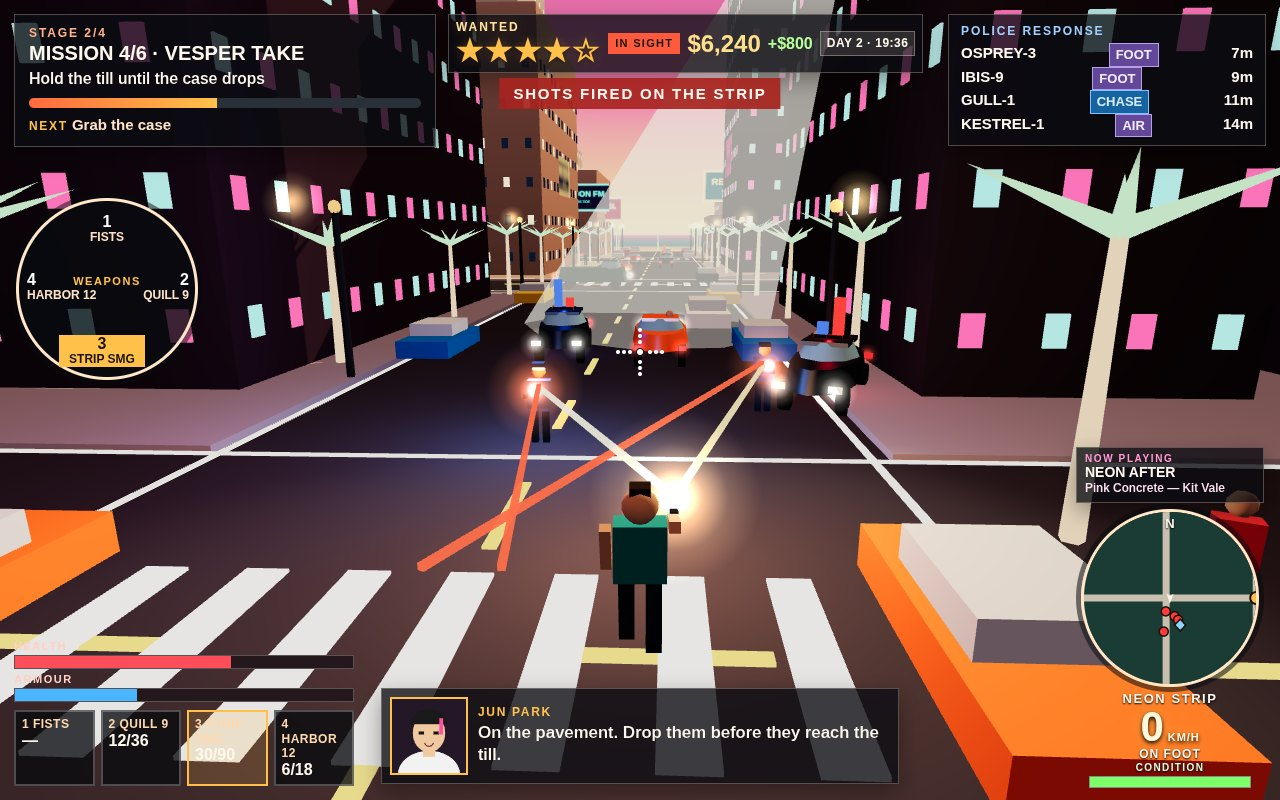
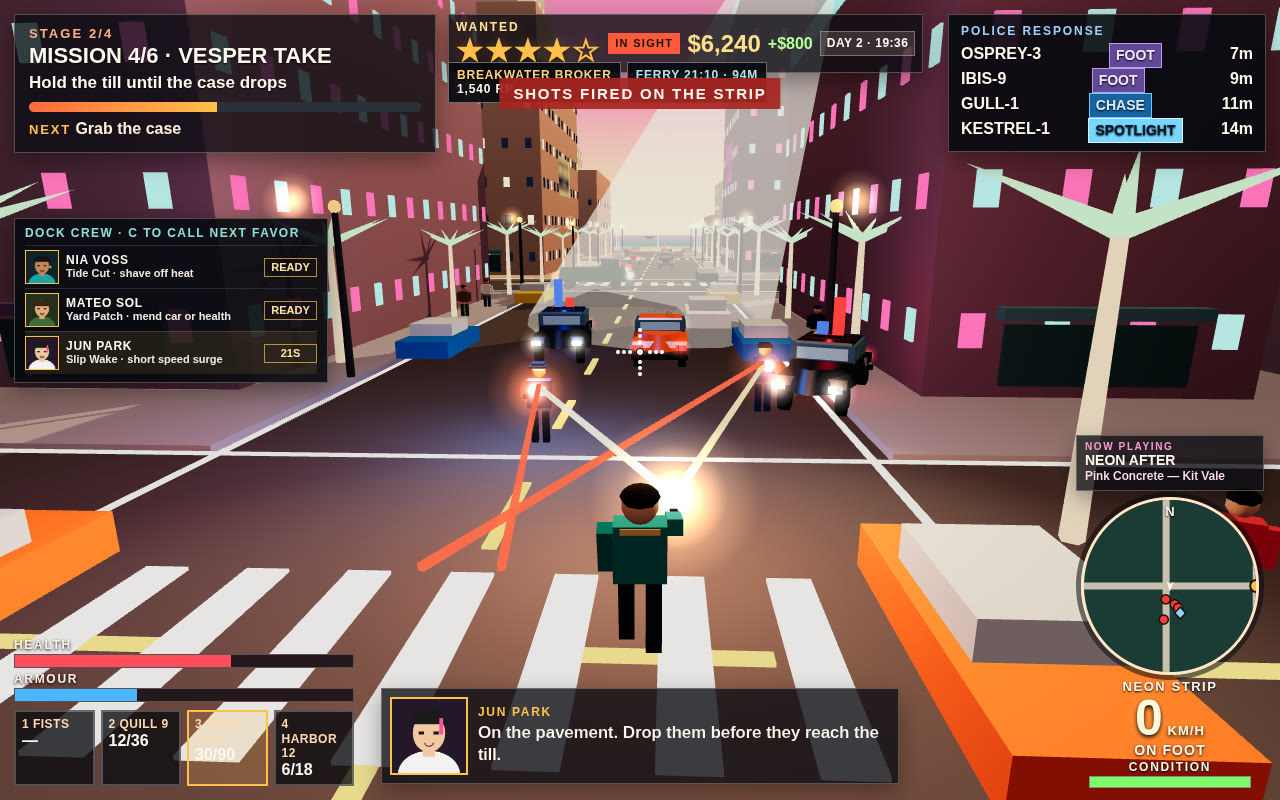
Restage Port Solano contact sheet

diff --git a/game/index.html b/game/index.html
@@ -11,13 +11,13 @@
   #status { position: absolute; width: 1px; height: 1px; overflow: hidden; clip-path: inset(50%); }
   .panel { background: rgba(10,12,18,0.78); border: 1px solid rgba(255,236,214,0.28); box-shadow: 0 8px 22px rgba(0,0,0,0.35); }
   #mission { position: absolute; top: 14px; left: 14px; width: 392px; padding: 12px 14px 12px; }
-  #mission-kicker { font: 800 12px/1 sans-serif; letter-spacing: 0.16em; color: #ffb089; }
-  #mission-title { font: 800 20px/1.15 sans-serif; margin-top: 3px; }
-  #mission-text { font: 600 16px/1.3 sans-serif; margin-top: 4px; }
+  #mission-kicker { font: 900 13px/1 sans-serif; letter-spacing: 0.16em; color: #ffb089; }
+  #mission-title { font: 900 22px/1.15 sans-serif; margin-top: 3px; text-shadow: 0 1px 2px #000; }
+  #mission-text { font: 700 17px/1.3 sans-serif; margin-top: 4px; text-shadow: 0 1px 2px #000; }
   #mission-bar { height: 10px; margin-top: 8px; background: #2a3038; border-radius: 5px; overflow: hidden; }
   #mission-fill { display: block; height: 100%; width: 0; background: linear-gradient(90deg, #ff6a3d, #ffc14a); }
-  #mission-next { margin-top: 7px; font: 700 15px/1.3 sans-serif; color: #ffe2c6; }
-  #mission-next b { color: #ffc14a; letter-spacing: 0.14em; font-size: 12px; }
+  #mission-next { margin-top: 7px; font: 800 16px/1.3 sans-serif; color: #fff0dc; }
+  #mission-next b { color: #ffc14a; letter-spacing: 0.14em; font-size: 13px; }
   #topbar { position: absolute; top: 14px; left: 35%; display: flex; gap: 7px; align-items: center; padding: 6px 7px; }
   #stars { color: #ffc14a; font: 800 31px/1 sans-serif; letter-spacing: 0.04em; }
   #stars::before { content: "WANTED"; display: block; margin-bottom: 2px; color: #ffe4a0; font: 900 12px/1 sans-serif; letter-spacing: 0.16em; }
@@ -26,32 +26,32 @@
   #cashpop { font: 800 16px/1 sans-serif; color: #b6ff9a; }
   #clock { font: 700 12px/1.2 sans-serif; letter-spacing: 0.04em; padding: 4px 6px; background: rgba(255,244,230,0.14); border: 1px solid rgba(255,236,214,0.35); }
   #careerbar { position: absolute; top: 62px; left: 35%; display: flex; gap: 6px; align-items: stretch; }
-  #rank-chip, #watch-chip { padding: 5px 8px; background: rgba(10,12,18,0.76); border: 1px solid rgba(255,236,214,0.28); font: 800 10px/1.2 sans-serif; letter-spacing: 0.08em; }
+  #rank-chip, #watch-chip { padding: 5px 8px; background: rgba(7,10,16,0.92); border: 1px solid rgba(255,236,214,0.42); font: 900 12px/1.2 sans-serif; letter-spacing: 0.07em; text-shadow: 0 1px 2px #000; }
   #rank-chip b, #rank-chip span { display: block; }
   #rank-chip b { color: #ffd27a; }
   #rank-chip span { color: #fff8ee; }
   #watch-chip { color: #b7e5ed; }
   #watch-chip.open { color: #14251b; background: #8de0ad; border-color: #d7ffe2; }
-  #police { position: absolute; top: 14px; right: 14px; width: 292px; padding: 10px 12px 8px; }
+  #police { position: absolute; top: 14px; right: 14px; width: 292px; padding: 10px 12px 8px; background: rgba(7,10,16,0.9); }
   #police-kicker { font: 800 12px/1 sans-serif; letter-spacing: 0.16em; color: #9fd0ff; }
-  #units { margin-top: 6px; font: 700 15px/1.35 sans-serif; }
+  #units { margin-top: 6px; font: 800 16px/1.35 sans-serif; text-shadow: 0 1px 2px #000; }
   .unit { display: flex; justify-content: space-between; gap: 8px; }
-  .unit i { font-style: normal; font-size: 13px; font-weight: 900; color: #fff; padding: 2px 6px; border: 1px solid transparent; }
+  .unit i { font-style: normal; font-size: 14px; font-weight: 900; color: #fff; padding: 2px 6px; border: 1px solid transparent; }
   .unit i.role-chase { color: #d7edff; background: #1762a1; border-color: #7bc5ff; }
   .unit i.role-ram { color: #fff0d2; background: #bd4d21; border-color: #ffad63; }
   .unit i.role-block { color: #211600; background: #ffd44f; border-color: #fff0a0; }
   .unit i.role-air { color: #071629; background: #77d7ff; border-color: #d3f4ff; }
   .unit i.role-other { color: #f2eaff; background: #63489a; border-color: #b7a0e9; }
   #notice { position: absolute; top: 78px; left: 50%; transform: translateX(-50%); padding: 8px 14px; background: rgba(168,36,32,0.92); font: 800 15px/1 sans-serif; letter-spacing: 0.12em; }
-  #crew-panel { position: absolute; top: 218px; left: 14px; width: 292px; padding: 8px 10px; }
-  #crew-title { margin-bottom: 5px; font: 900 10px/1 sans-serif; letter-spacing: 0.18em; color: #8de0d6; }
+  #crew-panel { position: absolute; top: 218px; left: 14px; width: 292px; padding: 8px 10px; background: rgba(7,10,16,0.9); }
+  #crew-title { margin-bottom: 5px; font: 900 12px/1.1 sans-serif; letter-spacing: 0.12em; color: #8de0d6; }
   .crew-row { display: flex; align-items: center; gap: 7px; padding: 4px 0; border-top: 1px solid rgba(255,255,255,0.12); }
   .crew-row.active { background: rgba(255,193,74,0.1); }
   .crew-row canvas { width: 32px; height: 32px; border: 1px solid #ffc14a; flex: none; }
   .crew-row div { min-width: 0; flex: 1; }
-  .crew-row b { display: block; font: 800 10px/1.1 sans-serif; letter-spacing: 0.06em; }
-  .crew-row span { display: block; overflow: hidden; white-space: nowrap; text-overflow: ellipsis; font: 600 10px/1.2 sans-serif; color: #d8d1c8; }
-  .crew-row i { min-width: 43px; padding: 3px 4px; text-align: center; font: 900 9px/1 sans-serif; color: #ffe2a0; border: 1px solid rgba(255,193,74,0.55); font-style: normal; }
+  .crew-row b { display: block; font: 900 12px/1.1 sans-serif; letter-spacing: 0.06em; }
+  .crew-row span { display: block; overflow: hidden; white-space: nowrap; text-overflow: ellipsis; font: 700 11px/1.2 sans-serif; color: #f0e9df; }
+  .crew-row i { min-width: 43px; padding: 3px 4px; text-align: center; font: 900 11px/1 sans-serif; color: #ffe2a0; border: 1px solid rgba(255,193,74,0.7); font-style: normal; }
   #race-panel[hidden] { display: none; }
   #race-panel { position: absolute; top: 212px; left: 50%; transform: translateX(-50%); min-width: 260px; padding: 8px 12px; text-align: center; border: 1px solid #ffc14a; background: rgba(10,12,18,0.84); }
   #race-name { color: #ffc14a; font: 900 12px/1 sans-serif; letter-spacing: 0.16em; }
@@ -59,7 +59,7 @@
   #race-next { margin-top: 4px; font: 700 11px/1 sans-serif; color: #c3eee5; }
   #race-time { position: absolute; top: 8px; right: 10px; font: 800 11px/1 sans-serif; color: #fff8ee; }
   #vitals { position: absolute; left: 14px; bottom: 14px; width: 340px; }
-  .lbl { font: 800 11px/1 sans-serif; letter-spacing: 0.14em; color: #ffd0c4; margin-top: 5px; }
+  .lbl { font: 900 12px/1 sans-serif; letter-spacing: 0.14em; color: #fff0e8; margin-top: 5px; text-shadow: 0 1px 3px #000; }
   .track { height: 12px; margin-top: 3px; background: #24181c; border: 1px solid rgba(255,255,255,0.25); }
   .track b { display: block; height: 100%; width: 0; }
   #hp b { background: #ff4d5a; }
@@ -82,25 +82,13 @@
   #minimap { width: 172px; height: 172px; display: block; background: #14343a; }
   #north { position: absolute; top: 5px; left: 0; right: 0; text-align: center; font: 800 13px/1 sans-serif; text-shadow: 0 1px 2px #000; }
   #district { margin-top: 4px; font: 800 13px/1.2 sans-serif; letter-spacing: 0.12em; text-shadow: 0 1px 2px #000; }
-  #speed { font: 900 42px/0.95 sans-serif; color: #fff8dc; text-shadow: 0 2px 4px #000, 0 0 12px rgba(255,189,78,0.5); }
-  #speed small { font-size: 11px; letter-spacing: 0.08em; }
-  #veh-name { font: 800 12px/1.2 sans-serif; letter-spacing: 0.08em; text-shadow: 0 1px 2px #000; }
-  #cond-label { margin-top: 2px; font: 800 10px/1 sans-serif; letter-spacing: 0.14em; color: #d7ffe0; text-shadow: 0 1px 2px #000; }
+  #speed { font: 900 50px/0.95 sans-serif; color: #fff8dc; text-shadow: 0 2px 4px #000, 0 0 12px rgba(255,189,78,0.5); }
+  #speed small { font-size: 13px; letter-spacing: 0.08em; }
+  #veh-name { font: 900 14px/1.2 sans-serif; letter-spacing: 0.08em; text-shadow: 0 1px 3px #000; }
+  #cond-label { margin-top: 2px; font: 900 12px/1 sans-serif; letter-spacing: 0.14em; color: #e7ffec; text-shadow: 0 1px 2px #000; }
   #cond { height: 10px; width: 160px; margin: 3px auto 0; background: #2a2424; border: 1px solid rgba(255,255,255,0.45); }
   #cond b { display: block; height: 100%; width: 0; background: #7dff6a; }
   #crosshair { position: absolute; left: 50%; top: 44%; width: 6px; height: 6px; margin: -3px 0 0 -3px; background: #fff; border-radius: 50%; box-shadow: 0 0 0 1px #111, 10px 0 0 -1px #fff, 16px 0 0 -1px #fff, 22px 0 0 -1px #fff, -10px 0 0 -1px #fff, -16px 0 0 -1px #fff, -22px 0 0 -1px #fff, 0 10px 0 -1px #fff, 0 16px 0 -1px #fff, 0 22px 0 -1px #fff, 0 -10px 0 -1px #fff, 0 -16px 0 -1px #fff, 0 -22px 0 -1px #fff; }
-  #chase-air { position: absolute; display: none; left: 48%; top: 68px; width: 260px; height: 150px; z-index: 3; transform: scale(1.16); transform-origin: top left; filter: drop-shadow(0 10px 12px rgba(18,8,28,0.32)); }
-  #chase-air.show { display: block; }
-  #chase-air .rotor { position: absolute; left: 18px; top: 17px; width: 225px; height: 9px; border-radius: 50%; background: rgba(22,26,36,0.92); transform: rotate(-3deg); box-shadow: 0 2px 0 #9eb2c8; }
-  #chase-air .rotor::before { content: ""; position: absolute; left: 108px; top: -1px; width: 9px; height: 9px; border-radius: 50%; background: #cbd9e4; }
-  #chase-air .body { position: absolute; left: 82px; top: 40px; width: 112px; height: 58px; border-radius: 48% 38% 42% 44%; background: linear-gradient(145deg,#d5b95e 0%,#496b72 32%,#183147 74%,#0b1018); border: 2px solid #ffe4a0; }
-  #chase-air .glass { position: absolute; left: 89px; top: 48px; width: 42px; height: 28px; clip-path: polygon(0 0,100% 14%,82% 100%,0 85%); background: linear-gradient(135deg,#effbff,#69b6cf); border: 1px solid #dcecf2; }
-  #chase-air .tail { position: absolute; left: 20px; top: 54px; width: 76px; height: 18px; background: linear-gradient(90deg,#d4ad4b,#203d56 38%); border: 2px solid #ffe4a0; transform: skewX(-18deg); }
-  #chase-air .fin { position: absolute; left: 22px; top: 26px; width: 22px; height: 42px; background: #b68b38; clip-path: polygon(40% 0,100% 35%,100% 100%,0 100%,0 72%); border: 1px solid #7f94a5; }
-  #chase-air .lamp-l { position: absolute; left: 90px; top: 86px; width: 13px; height: 13px; border-radius: 50%; background: #ff3444; box-shadow: 0 0 16px #ff3444; }
-  #chase-air .lamp-r { position: absolute; left: 175px; top: 83px; width: 13px; height: 13px; border-radius: 50%; background: #5aaaff; box-shadow: 0 0 16px #5aaaff; }
-  #chase-air .beam { position: absolute; left: 125px; top: 91px; width: 170px; height: 68px; transform: rotate(62deg); transform-origin: 0 0; clip-path: polygon(0 38%,100% 0,100% 100%,0 62%); background: linear-gradient(90deg,rgba(255,246,205,0.82),rgba(255,246,205,0.08)); }
-  #chase-air .name { position: absolute; left: 78px; top: 105px; color: #fff7dd; font: 800 10px/1 sans-serif; letter-spacing: 0.16em; text-shadow: 0 2px 4px #000; }
   #wheel { position: absolute; left: 16px; top: 198px; width: 176px; height: 176px; border-radius: 50%; border: 3px solid #ffe7c8; background: rgba(8,10,16,0.78); box-shadow: 0 0 0 5px rgba(8,10,14,0.5); }
   #wheel .hub { position: absolute; left: 46px; top: 74px; width: 84px; text-align: center; font: 800 11px/1.2 sans-serif; letter-spacing: 0.14em; color: #ffc14a; }
   #wheel .wseg { position: absolute; width: 86px; font: 800 12px/1.15 sans-serif; color: #ffe2c6; }
@@ -180,11 +168,6 @@
 <body>
 <canvas id="view" aria-label="Port Solano. Click to look, WASD to move, F to drive."></canvas>
 <div id="hud">
-  <div id="chase-air" aria-hidden="true">
-    <div class="beam"></div><div class="tail"></div><div class="fin"></div><div class="rotor"></div>
-    <div class="body"></div><div class="glass"></div><div class="lamp-l"></div><div class="lamp-r"></div>
-    <div class="name">KESTREL-1</div>
-  </div>
   <section id="mission" class="panel">
     <div id="mission-kicker">JOB OFFER</div>
     <div id="mission-title">MISSION 1/6 · CORAL DROP</div>

diff --git a/game/src/mapscreen.js b/game/src/mapscreen.js
@@ -5,7 +5,7 @@ import { ACTIVITIES } from './activities.js';
 import { DOCK_CREW } from './crew.js';
 
 const MARKS = [
-  [1, 0, 'CORAL SHORE'],
+  [1, 1, 'CORAL SHORE'],
   [4, 0, 'OLD HARBOR'],
   [3, 2, 'NEON STRIP'],
   [0, 4, 'PALM HEIGHTS'],
@@ -65,7 +65,8 @@ export function drawWorldMap(canvas, s) {
   for (const activity of ACTIVITIES) {
     const p = P(activity.x, activity.z);
     const story = activity.kind === 'STORY';
-    if (story) { p[0] += 14; p[1] -= 14; }
+    if (activity.kind === 'SAFEHOUSE') { p[0] -= 11; p[1] += 12; }
+    else if (story) { p[0] += 15; p[1] -= 15; }
     ctx.fillStyle = activity.kind === 'SAFEHOUSE' ? '#ffc14a' : activity.kind === 'RACE' ? '#74e5d3' : story ? '#d9b7ff' : '#f4986a';
     ctx.strokeStyle = '#12232a';
     ctx.lineWidth = 3;
@@ -77,9 +78,10 @@ export function drawWorldMap(canvas, s) {
     ctx.font = '900 11px sans-serif';
     ctx.fillText(activity.kind === 'SAFEHOUSE' ? 'H' : activity.kind === 'RACE' ? 'R' : story ? 'C' : 'G', p[0], p[1] + 4);
     ctx.fillStyle = '#fff4df';
-    ctx.font = '800 11px sans-serif';
-    ctx.textAlign = 'left';
-    ctx.fillText(story ? 'CONTACT' : activity.kind, p[0] + 13, p[1] + 4);
+    ctx.font = '800 13px sans-serif';
+    ctx.textAlign = activity.kind === 'SAFEHOUSE' ? 'right' : 'left';
+    const labelX = activity.kind === 'SAFEHOUSE' ? p[0] - 13 : p[0] + 13;
+    ctx.fillText(story ? 'CONTACT' : activity.kind, labelX, p[1] + 4);
     ctx.textAlign = 'center';
   }
   const job = s.mission;
@@ -128,7 +130,7 @@ export function drawWorldMap(canvas, s) {
   ctx.fillText('PORT SOLANO', 30, 42);
   ctx.font = '800 15px sans-serif';
   ctx.fillStyle = '#ffd27a';
-  ctx.fillText('MAP + CAREER  ·  M OR ESC CLOSES', 30, 67);
+  ctx.fillText('PAUSE MAP + STATS  ·  M OR ESC CLOSES', 30, 67);
   ctx.font = '800 14px sans-serif';
   ctx.fillStyle = '#bce6e4';
   ctx.fillText((s.district || '').toUpperCase() + '  ·  RAFA QUILL', 30, 91);
@@ -136,7 +138,7 @@ export function drawWorldMap(canvas, s) {
   const sx = mapW + 24;
   const sw = w - sx - 20;
   ctx.fillStyle = '#ffc14a';
-  ctx.font = '900 17px sans-serif';
+  ctx.font = '900 19px sans-serif';
   ctx.fillText('WATERFRONT RESPECT', sx, 42);
   ctx.fillStyle = '#fff8ee';
   ctx.font = '900 21px sans-serif';
@@ -163,7 +165,7 @@ export function drawWorldMap(canvas, s) {
     ctx.textAlign = 'right';
     ctx.fillText(value, sx + sw, sy);
     ctx.textAlign = 'left';
-    sy += 37;
+    sy += 38;
   }
   sy += 8;
   ctx.strokeStyle = 'rgba(255,255,255,0.18)';
@@ -173,41 +175,41 @@ export function drawWorldMap(canvas, s) {
   ctx.stroke();
   sy += 28;
   ctx.fillStyle = '#ffc14a';
-  ctx.font = '900 15px sans-serif';
+  ctx.font = '900 17px sans-serif';
   ctx.fillText('STORY CHECKLIST', sx, sy);
   sy += 23;
   for (let i = 0; i < s.missions.length; i++) {
     const done = i < s.cleared;
     ctx.fillStyle = done ? '#8de0ad' : '#e5ddd0';
-    ctx.font = '700 12px sans-serif';
+    ctx.font = '700 14px sans-serif';
     ctx.fillText((done ? '✓ ' : '○ ') + s.missions[i], sx, sy);
-    sy += 20;
+    sy += 22;
   }
   sy += 9;
   ctx.fillStyle = '#72d9d2';
-  ctx.font = '900 15px sans-serif';
+  ctx.font = '900 17px sans-serif';
   ctx.fillText('DOCK CREW  ·  C CALLS NEXT FAVOR', sx, sy);
   sy += 23;
   for (const member of DOCK_CREW) {
     ctx.fillStyle = '#fff8ee';
-    ctx.font = '800 12px sans-serif';
+    ctx.font = '800 14px sans-serif';
     ctx.fillText(member.name.toUpperCase() + '  /  ' + member.ability.toUpperCase(), sx, sy);
-    sy += 20;
+    sy += 22;
   }
   sy += 8;
   ctx.fillStyle = '#ffc14a';
-  ctx.font = '900 15px sans-serif';
+  ctx.font = '900 17px sans-serif';
   ctx.fillText('SAVE SLOTS  ·  PAUSE TO WRITE', sx, sy);
   sy += 23;
   for (let i = 0; i < s.saveSlots.length; i++) {
     const save = s.saveSlots[i];
     ctx.fillStyle = save ? '#e5ddd0' : '#91a2a4';
-    ctx.font = '700 11px sans-serif';
+    ctx.font = '700 13px sans-serif';
     const label = save
       ? 'SLOT ' + (i + 1) + '  ·  DAY ' + save.day + '  ·  ' + (save.district || 'PORT SOLANO') + '  ·  $' + Math.floor(save.cash)
       : 'SLOT ' + (i + 1) + '  ·  EMPTY';
     ctx.fillText(label, sx, sy);
-    sy += 18;
+    sy += 21;
   }
   ctx.fillStyle = '#ffd7b0';
   ctx.font = '700 12px sans-serif';

diff --git a/game/src/shots.js b/game/src/shots.js
@@ -117,8 +117,10 @@ function stageChase(world, shot) {
     if (Math.hypot(car.x - shot.x, car.z - shot.z) < 18) car.mesh.visible = false;
   }
   stagePolice(world.police, 'chase', shot.x, shot.z, shot.yaw);
-  world.police.officers[0].active = false;
-  world.police.officers[0].mesh.visible = false;
+  for (const officer of world.police.officers) {
+    officer.active = false;
+    officer.mesh.visible = false;
+  }
   driftFx(world.scene, shot.x, shot.z, shot.face);
   placePed(peds.list[0], shot.x - 7.2, shot.z - 13, shot.face + 1.5);
   placePed(peds.list[1], shot.x + 7.4, shot.z - 17, shot.face - 1.5);
@@ -291,10 +293,11 @@ function stageCity(world, shot) {
 }
 
 function stageDocklineRace(world, shot) {
-  const { combat, radio, respect, crew, race } = world;
+  const { combat, radio, respect, crew, race, missions, peds } = world;
   const ride = drive(world, 0, shot, 26, 0.8);
   ride.steer = 0.12;
   stageRace(race);
+  stageMission(missions, 'chase');
   combat.vitals.cash = 3180;
   combat.vitals.health = 100;
   combat.vitals.armour = 40;
@@ -304,7 +307,22 @@ function stageDocklineRace(world, shot) {
   crew.cooldowns[1] = 12;
   crew.cooldowns[2] = 0;
   radio.index = 4;
+  placePed(peds.list[0], shot.x - 6, shot.z - 10, shot.face + 1.4);
+  placePed(peds.list[1], shot.x + 7, shot.z - 15, shot.face - 1.3);
+  park(world, 1, shot.x - 4, shot.z - 22, shot.face);
+  park(world, 4, shot.x + 4, shot.z - 33, shot.face);
   return ride;
+}
+
+function stageMap(world) {
+  const { missions, respect, crew } = world;
+  stageMission(missions, 'chase');
+  respect.rp = 2870;
+  crew.selected = 1;
+  crew.cooldowns[0] = 0;
+  crew.cooldowns[1] = 0;
+  crew.cooldowns[2] = 0;
+  return null;
 }
 
 // Returns the driven car when the pose is in a vehicle. Start stays on the title card.
@@ -317,5 +335,6 @@ export function applyShot(name, world) {
   else if (name === 'onfoot') driven = stageOnFoot(world, shot);
   else if (name === 'city') driven = stageCity(world, shot);
   else if (name === 'race') driven = stageDocklineRace(world, shot);
+  else if (name === 'map') driven = stageMap(world);
   return { driven };
 }

diff --git a/game/src/main.js b/game/src/main.js
@@ -39,7 +39,7 @@ const params = new URLSearchParams(location.search);
 const shotName = params.get('shot');
 const seed = Number(params.get('seed') || '1') || 1;
 const shot = SHOTS[shotName] || null;
-const wide = shotName === 'city' || shotName === 'start';
+const wide = shotName === 'city' || shotName === 'start' || shotName === 'map';
 const testing = params.get('test') === '1';
 const baseFov = wide ? 48 : 58;
 
@@ -77,7 +77,9 @@ const dialogue = createDialogue();
 const radio = createRadio();
 const toast = { text: '', t: 0 };
 let respect = createRespect();
-let activities = createActivities();
+let activities = createActivities(shotName === 'map'
+  ? { jobsDone: 2, carsStolen: 4, heatEscaped: 1, distanceKm: 16.8, racesWon: 1, bestRace: 184.6 }
+  : {});
 const crew = createCrew();
 const race = createRace();
 let driven = null;
@@ -615,7 +617,14 @@ menus.onGarageAction = (serviceId) => {
   toast.t = result.ok ? 2.8 : 2;
   refreshGarage();
 };
-if (playing) menus.showPlay();
+if (playing && shotName === 'map') {
+  menus.saves = [
+    { day: 2, district: 'Coral Shore', cash: 2460 },
+    { day: 3, district: 'Old Harbor', cash: 6240 },
+    null,
+  ];
+  menus.showMap();
+} else if (playing) menus.showPlay();
 else menus.showTitle(shotName === 'start' ? [shotPreview(), null, null] : readSaves());
 savedClear = missions.cleared;
 heardShot = combat.loadout.shot;
@@ -770,7 +779,7 @@ function tick(now) {
     radio: track,
     notice: toast.t > 0 ? toast.text : '',
     crosshair: shotName === 'onfoot' || (live && !driven && combat.vitals.state === 'ok'),
-    wheel: shotName === 'onfoot',
+    wheel: shotName === 'onfoot' && !shot,
   });
   if (menus.mode === 'map') {
     drawWorldMap(menus.mapCanvas, {

diff --git a/game/src/police.js b/game/src/police.js
@@ -82,8 +82,8 @@ function roadblockMesh() {
 
 function helicopterMesh() {
   const mesh = new THREE.Group();
-  const bodyMat = new THREE.MeshPhongMaterial({ color: 0x476c7a, shininess: 72, specular: 0xb5d0d5 });
-  const glassMat = new THREE.MeshLambertMaterial({ color: 0xb7d4e2 });
+  const bodyMat = new THREE.MeshPhongMaterial({ color: 0x73949a, shininess: 72, specular: 0xc5e4e6, emissive: 0x172b32 });
+  const glassMat = new THREE.MeshLambertMaterial({ color: 0xd7f0f3, emissive: 0x294854 });
   const body = new THREE.Mesh(new THREE.BoxGeometry(1.9, 0.92, 4.1), bodyMat);
   const tail = new THREE.Mesh(new THREE.BoxGeometry(0.38, 0.36, 2.9), bodyMat);
   tail.position.set(0, 0.2, 2.4);
@@ -437,16 +437,16 @@ export function stagePolice(police, shot, x, z, yaw) {
     }
     police.hx = x + rx * 3;
     police.hz = z - 24;
-    police.hy = 5.2;
+    police.hy = 7.2;
     police.heli.mesh.visible = true;
-    police.heli.mesh.scale.setScalar(1.5);
-    police.heli.beam.scale.setScalar(1 / 1.5);
+    police.heli.mesh.scale.setScalar(1.9);
+    police.heli.beam.scale.setScalar(1 / 1.9);
     police.heli.mesh.position.set(police.hx, police.hy, police.hz);
     police.heli.mesh.rotation.y = yaw + 0.85;
     police.heli.rotor.rotation.y = 0.7;
     police.heli.beam.visible = true;
     police.heli.beam.rotation.x = -0.38;
-    police.heli.beam.material.opacity = 0.34;
+    police.heli.beam.material.opacity = 0.48;
     police.heli.spot.intensity = 10;
     police.heli.target.position.set(x, 0.5, z);
     police.bust = 0.4;

diff --git a/game/src/config.js b/game/src/config.js
@@ -31,11 +31,12 @@ export const CAM = {
 // Frozen poses. lookY is the camera's look height above the ground point.
 export const SHOTS = {
   // aim is how far ahead of the hero the chase camera looks. yaw is the road; face is the drift.
-  chase: { x: 128.4, z: 64, face: 0.48, yaw: 0, pitch: 0.18, dist: 13.6, lookY: 1.28, aim: 7.2 },
+  chase: { x: 128.4, z: 64, face: 0.48, yaw: 0, pitch: 0.18, dist: 13.6, lookY: 1.28, aim: 4.4 },
   onfoot: { x: 133.9, z: 132, face: 0.04, yaw: 0.04, pitch: 0.24, dist: 11.2, lookY: 1.2 },
   city: { x: 70, z: 45.9, face: -1.57, yaw: 0.1, pitch: 0.47, dist: 250, lookY: 5 },
   start: { x: 142, z: 68, face: 0, yaw: 0.5, pitch: 0.58, dist: 165, lookY: 7.5 },
-  race: { x: 177, z: 45.5, face: -0.22, yaw: 0, pitch: 0.2, dist: 12.6, lookY: 1.25, aim: 5.2 },
+  race: { x: 224, z: 118, face: 0, yaw: 0, pitch: 0.2, dist: 12.6, lookY: 1.25, aim: 5.2 },
+  map: { x: 132, z: 64, face: 0, yaw: 0, pitch: 0.2, dist: 12.6, lookY: 1.25 },
 };
 
 export function blockBounds(ix, iz) {

diff --git a/game/src/hud.js b/game/src/hud.js
@@ -1,4 +1,4 @@
-// DOM overlay: mission, wanted, cash, clock, police, minimap, vitals, radio, dialogue.
+// DOM overlay: mission, wanted, cash, clock, career, crew, police, minimap, vitals, radio, dialogue.
 import { GRID_X, GRID_Z, SPAN } from './config.js';
 import { paintPortrait } from './dialogue.js';
 import { ACTIVITIES } from './activities.js';

diff --git a/NOTES.md b/NOTES.md
@@ -191,3 +191,9 @@ The sunset horizon and warm fill are brighter, asphalt reads as sunlit charcoal,
 Sidewalk crowds are seeded and capped at 34 pedestrians, with distinct hair, shirts, trousers, and visible arms; traffic adds two more capped lane cars. Rafa now has a clear haircut and jacket trim. Vehicle roofs, dark side glass, bright windscreens, inset wheels, bumpers, and rear lamps separate the car silhouette at chase distance. KESTREL-1 has skids and a distinct tail, and the staged chase now places visible officers, striped concrete barriers, cones, spike strip, and an independently scaled spotlight beam in the road scene. The chase camera is closer, and its decorative HUD helicopter was removed so it cannot cover the 3D aircraft.
 
 No official screenshot was written or recaptured. On port 18805, `?test=1&seed=1` reports `drive-test ok` with no page exceptions; temporary chase and city renders were checked at 768×480. `MAKEFUN_OUTPUT_DIR=/tmp/g6bout node main.ts` writes `dossier.json` and copies `game/` with exactly the existing four JPEGs. JavaScript syntax and `git diff --check` pass.
+
+## Session 12 — official contact sheet
+
+Staged the official set as `1-chase.jpg`, `2-onfoot.jpg`, `3-race.jpg`, and `4-map.jpg`. Added a checkpoint-three Dockline scene with cargo traffic, named crew dialogue, and living sidewalk pedestrians, plus a paused MAP + STATS shot with named districts, activity markers, career progress, crew, respect, and three save slots. Removed the old aerial and title-menu captures from the official set; the title remains playable.
+
+Tightened HUD hierarchy and contrast for mission copy, tactical chips, respect, crew, speed, and vehicle identity. Removed the decorative DOM helicopter so the large in-world KESTREL-1 and its spotlight remain unobscured. Staged on-foot capture keeps its weapon slots but drops the oversized weapon wheel to protect the action. Captures are recaptured at 1280×800 and checked alongside the 768×480 cover downscale.

diff --git a/README.md b/README.md
@@ -50,7 +50,7 @@ node serve.ts
 
 Open the printed address in desktop Chrome. Keyboard and mouse. No build step and no network.
 
-Screenshot scenes freeze a staged moment: `/?shot=chase&seed=1`, `onfoot`, `city`, or `start`.
+Screenshot scenes freeze a staged moment: `/?shot=chase&seed=1`, `onfoot`, `race`, or `map`.
 
 [![make.fun · gta6-01](https://make.fun/badge/gta6-01.svg)](https://make.fun/bounty/gta6-01?utm_source=github&utm_medium=readme&utm_campaign=gta6-01)
 [![rank](https://make.fun/badge/gta6-01/dtai93/gta6-3d-gb3/rank.svg)](https://make.fun/bounty/gta6-01/leaderboard?utm_source=github&utm_medium=readme&utm_campaign=gta6-01)
